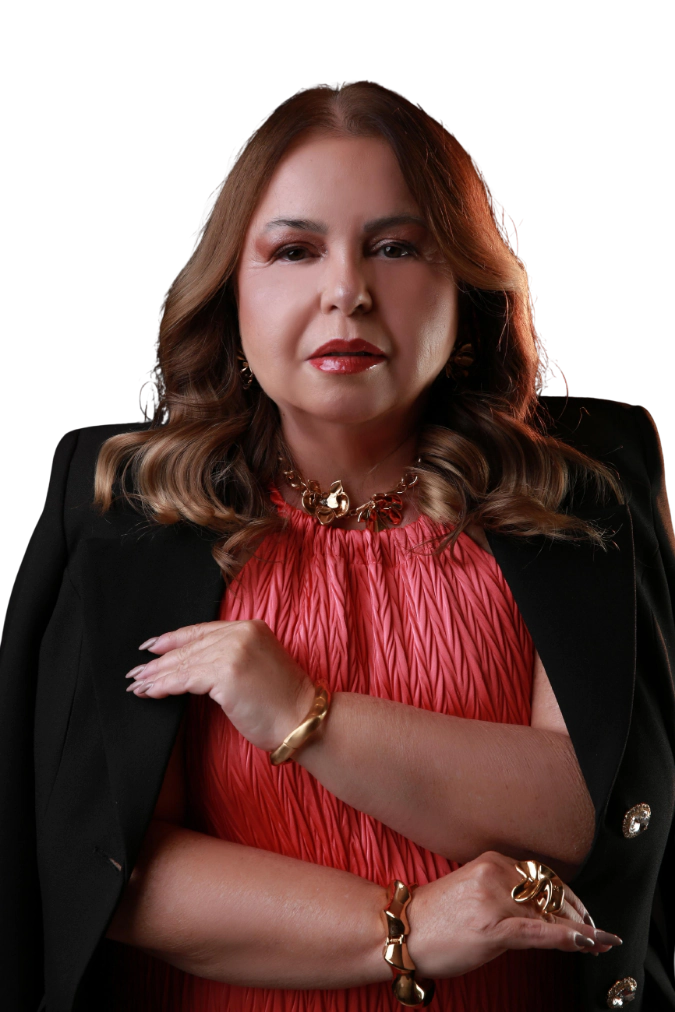
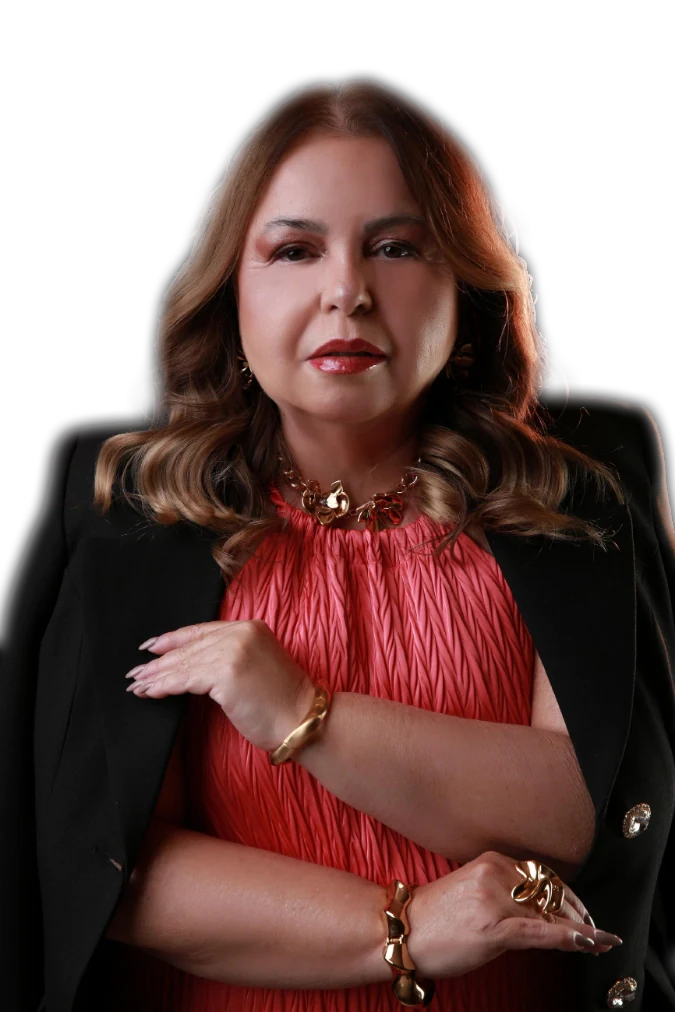
fix(fotos): bordas laterais dos recortes com alfa macio (feather no arquivo)

Changed region(s): [[0.0, 0.0613, 1.0, 0.6433], [0.9956, 0.919, 1.0, 0.9802]]

diff --git a/src/app/components/about/about.css b/src/app/components/about/about.css
@@ -13,10 +13,10 @@
 }
 
 .about-photo__img {
-  /* Esfumaça o perímetro (recorte sem bordas definidas): feather suave em volta + blur mínimo na borda */
-  filter: blur(0.35px);
-  -webkit-mask-image: radial-gradient(ellipse 106% 102% at 50% 44%, #000 74%, transparent 96%);
-  mask-image: radial-gradient(ellipse 106% 102% at 50% 44%, #000 74%, transparent 96%);
+  /* A silhueta já vem com borda macia no arquivo; aqui só esfumacamos a base */
+  filter: blur(0.3px);
+  -webkit-mask-image: linear-gradient(to bottom, #000 0%, #000 55%, transparent 92%);
+  mask-image: linear-gradient(to bottom, #000 0%, #000 55%, transparent 92%);
 }
 
 .about-photo__blur {

diff --git a/src/app/components/faq/faq.css b/src/app/components/faq/faq.css
@@ -17,10 +17,10 @@
 }
 
 .faq-photo__img {
-  /* Esfumaça o perímetro (recorte sem bordas definidas): feather suave em volta + blur mínimo na borda */
-  filter: blur(0.35px);
-  -webkit-mask-image: radial-gradient(ellipse 106% 102% at 50% 44%, #000 74%, transparent 96%);
-  mask-image: radial-gradient(ellipse 106% 102% at 50% 44%, #000 74%, transparent 96%);
+  /* A silhueta já vem com borda macia no arquivo; aqui só esfumacamos a base */
+  filter: blur(0.3px);
+  -webkit-mask-image: linear-gradient(to bottom, #000 0%, #000 55%, transparent 92%);
+  mask-image: linear-gradient(to bottom, #000 0%, #000 55%, transparent 92%);
 }
 
 .faq-photo__blur {
